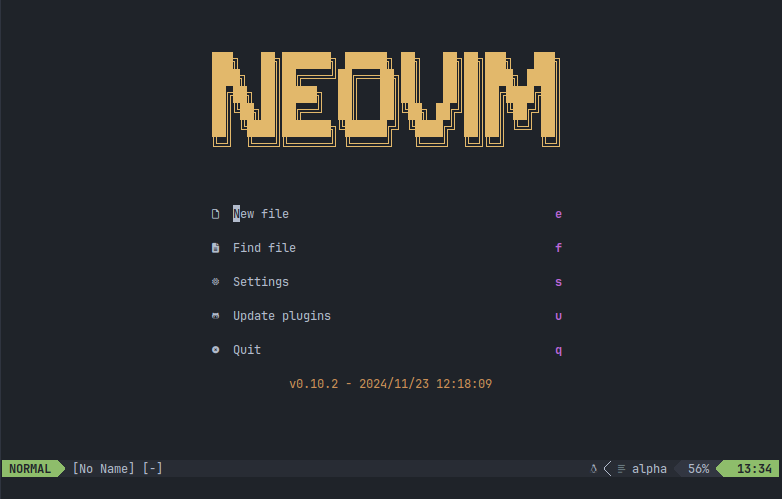
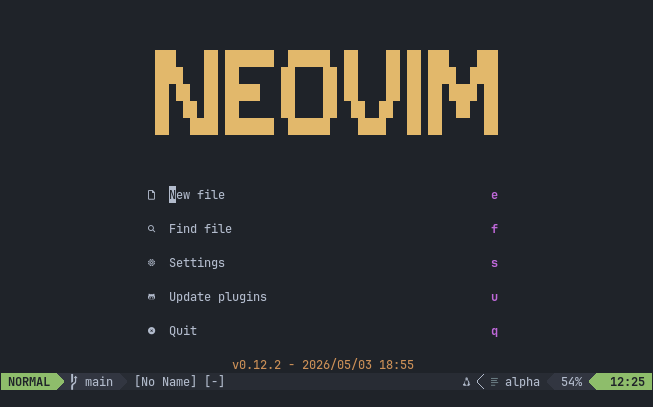
Breaking Change for neovim version 0.12.x
NOTE: This is now a "stable-config" for Neovim v0.12.x but with a
"stable" configuration, slow changes from now.

1. New directory tree
2. Code refactoring (wip)
3. New Treesitter configuration (see: Treesitter changes)

diff --git a/README.md b/README.md
@@ -8,12 +8,6 @@ Neovim KISS configuration with Lua and LSP
 
 ---
 
->[!CAUTION]
-> **Public Archive - This repository is deprecated and is compatible only with Neovim version 0.11.x.
-I'm working on a new configuration for version 0.12.x, so there will be a new git repository called "neovim-config."**
-
----
-
 ## Table of Contents
 
 * [Plugins](#plugins)
@@ -73,37 +67,39 @@ I'm working on a new configuration for version 0.12.x, so there will be a new gi
 
 * [lua](nvim/lua): The directory of `lua` modules, these modules are called in the `init.lua` file (see below).
 
-See: [nanotee/nvim-lua-guide: Where to put Lua files](https://github.com/nanotee/nvim-lua-guide#where-to-put-lua-files)
+See: [neovim.io/doc/user/lua-guide/#_lua-modules](https://neovim.io/doc/user/lua-guide/#_lua-modules)
 
-`/nvim/lua/core`
+`/nvim/lua/config`
 
-* [autocmds.lua](nvim/lua/core/autocmds.lua): Define autocommands with Lua APIs
+* [autocmds.lua](nvim/lua/config/autocmds.lua): Define autocommands with Lua APIs
 
-* [colors.lua](nvim/lua/core/colors.lua): Define Neovim and plugins color scheme
+* [colors.lua](nvim/lua/config/colors.lua): Define Neovim and plugins color scheme
 
-* [keymaps.lua](nvim/lua/core/keymaps.lua): Keymaps configuration file, Neovim and plugins keymaps
+* [keymaps.lua](nvim/lua/config/keymaps.lua): Keymaps configuration file, Neovim and plugins keymaps
 
-* [lazy.lua](nvim/lua/core/lazy.lua): Plugin manager configuration file
+* [lazy.lua](nvim/lua/config/lazy.lua): Plugin manager configuration file
 
-* [options.lua](nvim/lua/core/options.lua): General Neovim settings
+* [options.lua](nvim/lua/config/options.lua): General Neovim settings
 
-* [statusline.lua](nvim/lua/core/statusline.lua): Statusline configuration file
+* [statusline.lua](nvim/lua/config/statusline.lua): Statusline configuration file
 
-`/nvim/lua/plugins`
+`/nvim/lua/plugin`
 
-* [alpha-nvim.lua](nvim/lua/plugins/alpha-nvim.lua): Dashboard
+* [alpha-nvim.lua](nvim/lua/plugin/alpha-nvim.lua): Dashboard
 
-* [indent-blankline.lua](nvim/lua/plugins/indent-blankline.lua): Indent line
+* [indent-blankline.lua](nvim/lua/plugin/indent-blankline.lua): Indent line
 
-* [nvim-cmp.lua](nvim/lua/plugins/nvim-cmp.lua): Autocompletion settings
+* [nvim-cmp.lua](nvim/lua/plugin/nvim-cmp.lua): Autocompletion settings
 
-* [nvim-tree.lua](nvim/lua/plugins/nvim-tree.lua): File manager settings
+* [nvim-tree.lua](nvim/lua/plugin/nvim-tree.lua): File manager settings
 
-* [nvim-treesitter](nvim/lua/plugins/nvim-treesitter): Treesitter interface configuration
+* [nvim-treesitter](nvim/lua/plugin/nvim-treesitter): Treesitter interface configuration
 
 ## Installation
 
-1. Install [Neovim v0.11.x](https://github.com/neovim/neovim/releases/latest).
+1. Install [Neovim v0.12.x](https://github.com/neovim/neovim/releases/latest).
+
+    - See: [neovim.io/doc/install/](https://neovim.io/doc/install/)
 
 2. Install [Nerd Fonts](https://www.nerdfonts.com/font-downloads), (the font of the screenshots are `JetBrainsMono Nerd Font`).
 
@@ -133,17 +129,23 @@ nvim
 
 ## LSP Configuration
 
-1. Install LSP language servers with `npm`, see: [Languages Currently Supported](languages-currently-supported)
+1. Install LSP language servers with `npm`, see: [LSP Default Language Servers](lsp-default-language-servers)
 
 ```term
 sudo npm install -g \
     bash-language-server \
     pyright \
     vscode-langservers-extracted \
-    typescript typescript-language-server
+    typescript typescript-language-server \
+    rust-analyzer
 ```
 
-2. Install additional packages for plugins support:
+For Lua language server see:
+
+  - [lua_ls](https://github.com/neovim/nvim-lspconfig/blob/master/doc/configs.md#lua_ls)
+  - [lua-language-server](https://github.com/luals/lua-language-server)
+
+2. Install additional packages for C, C++ and Python:
 
 **C, C++:**
 
@@ -155,13 +157,15 @@ sudo npm install -g \
 
 * [pynvim](https://github.com/neovim/pynvim)
 
-3. Open a source file of one of the supported languages with Neovim, and run command [:LspInfo](https://github.com/neovim/nvim-lspconfig?tab=readme-ov-file#commands) for verify the LSP support.
+3. Open a code file matching one of the filetypes specified in the config with Neovim, and check that LSP is active with `:checkhealth vim.lsp` command.
 
-See: [nvim-lspconfig - Quickstart](https://github.com/neovim/nvim-lspconfig/tree/master?tab=readme-ov-file#quickstart)
+See: [neovim.io/doc/user/lsp/](https://neovim.io/doc/user/lsp/)
 
-### Languages Currently Supported
+### LSP Default Language Servers
 
-Lua - [builtin](https://neovim.io/doc/user/lua.html)
+neovim-lua by default has the following language servers installed:
+
+Lua - [lua_ls](https://github.com/neovim/nvim-lspconfig/blob/master/doc/configs.md#lua_ls)
 
 Bash - [bashls](https://github.com/neovim/nvim-lspconfig/blob/master/doc/configs.md#bashls)
 
@@ -173,7 +177,9 @@ HTML, CSS, JSON - [vscode-langservers-extracted](https://github.com/neovim/nvim-
 
 JavaScript, TypeScript - [ts_ls](https://github.com/neovim/nvim-lspconfig/blob/master/doc/configs.md#ts_ls)
 
-LSP server configs: [nvim-lspconfig #doc/LSP configs](https://github.com/neovim/nvim-lspconfig/blob/master/doc/configs.md)
+Rust - [rust_analyzer](https://github.com/neovim/nvim-lspconfig/blob/master/doc/configs.md#rust_analyzer)
+
+See [nvim-lspconfig #doc/LSP configs](https://github.com/neovim/nvim-lspconfig/blob/master/doc/configs.md)
 
 ## Appearance
 
@@ -198,20 +204,10 @@ The color scheme (default: OneDark) is defined in the following file:
 * Neovim UI - [nvim/lua/core/colors.lua](nvim/lua/core/colors.lua):
 
 ```lua
---[[
-Set Neovim UI color scheme.
-Current available color schemes: onedark, kanagawa, monokai-pro, rose-pine.
-See: https://github.com/brainfucksec/neovim-lua#appearance
-
-Insert preferred color scheme in the `color_scheme` variable.
-Note: Color scheme is loaded in the "Load color scheme" section below, setup
-must be called before loading.
---]]
-local status_ok, color_scheme = pcall(require, 'onedark')
 
 -- Color scheme setup before load:
 require('onedark').setup({
-    -- Your settings here.
+    -- color scheme settings here..
 })
 
 --[[
@@ -250,6 +246,8 @@ These are the default keymaps, in the following shortcuts, the `<leader>` key is
 ```vim
 :checkhealth
 ```
+
+See: `help checkhealth`
 
 ![alt text](img/checkhealth.png)
 
